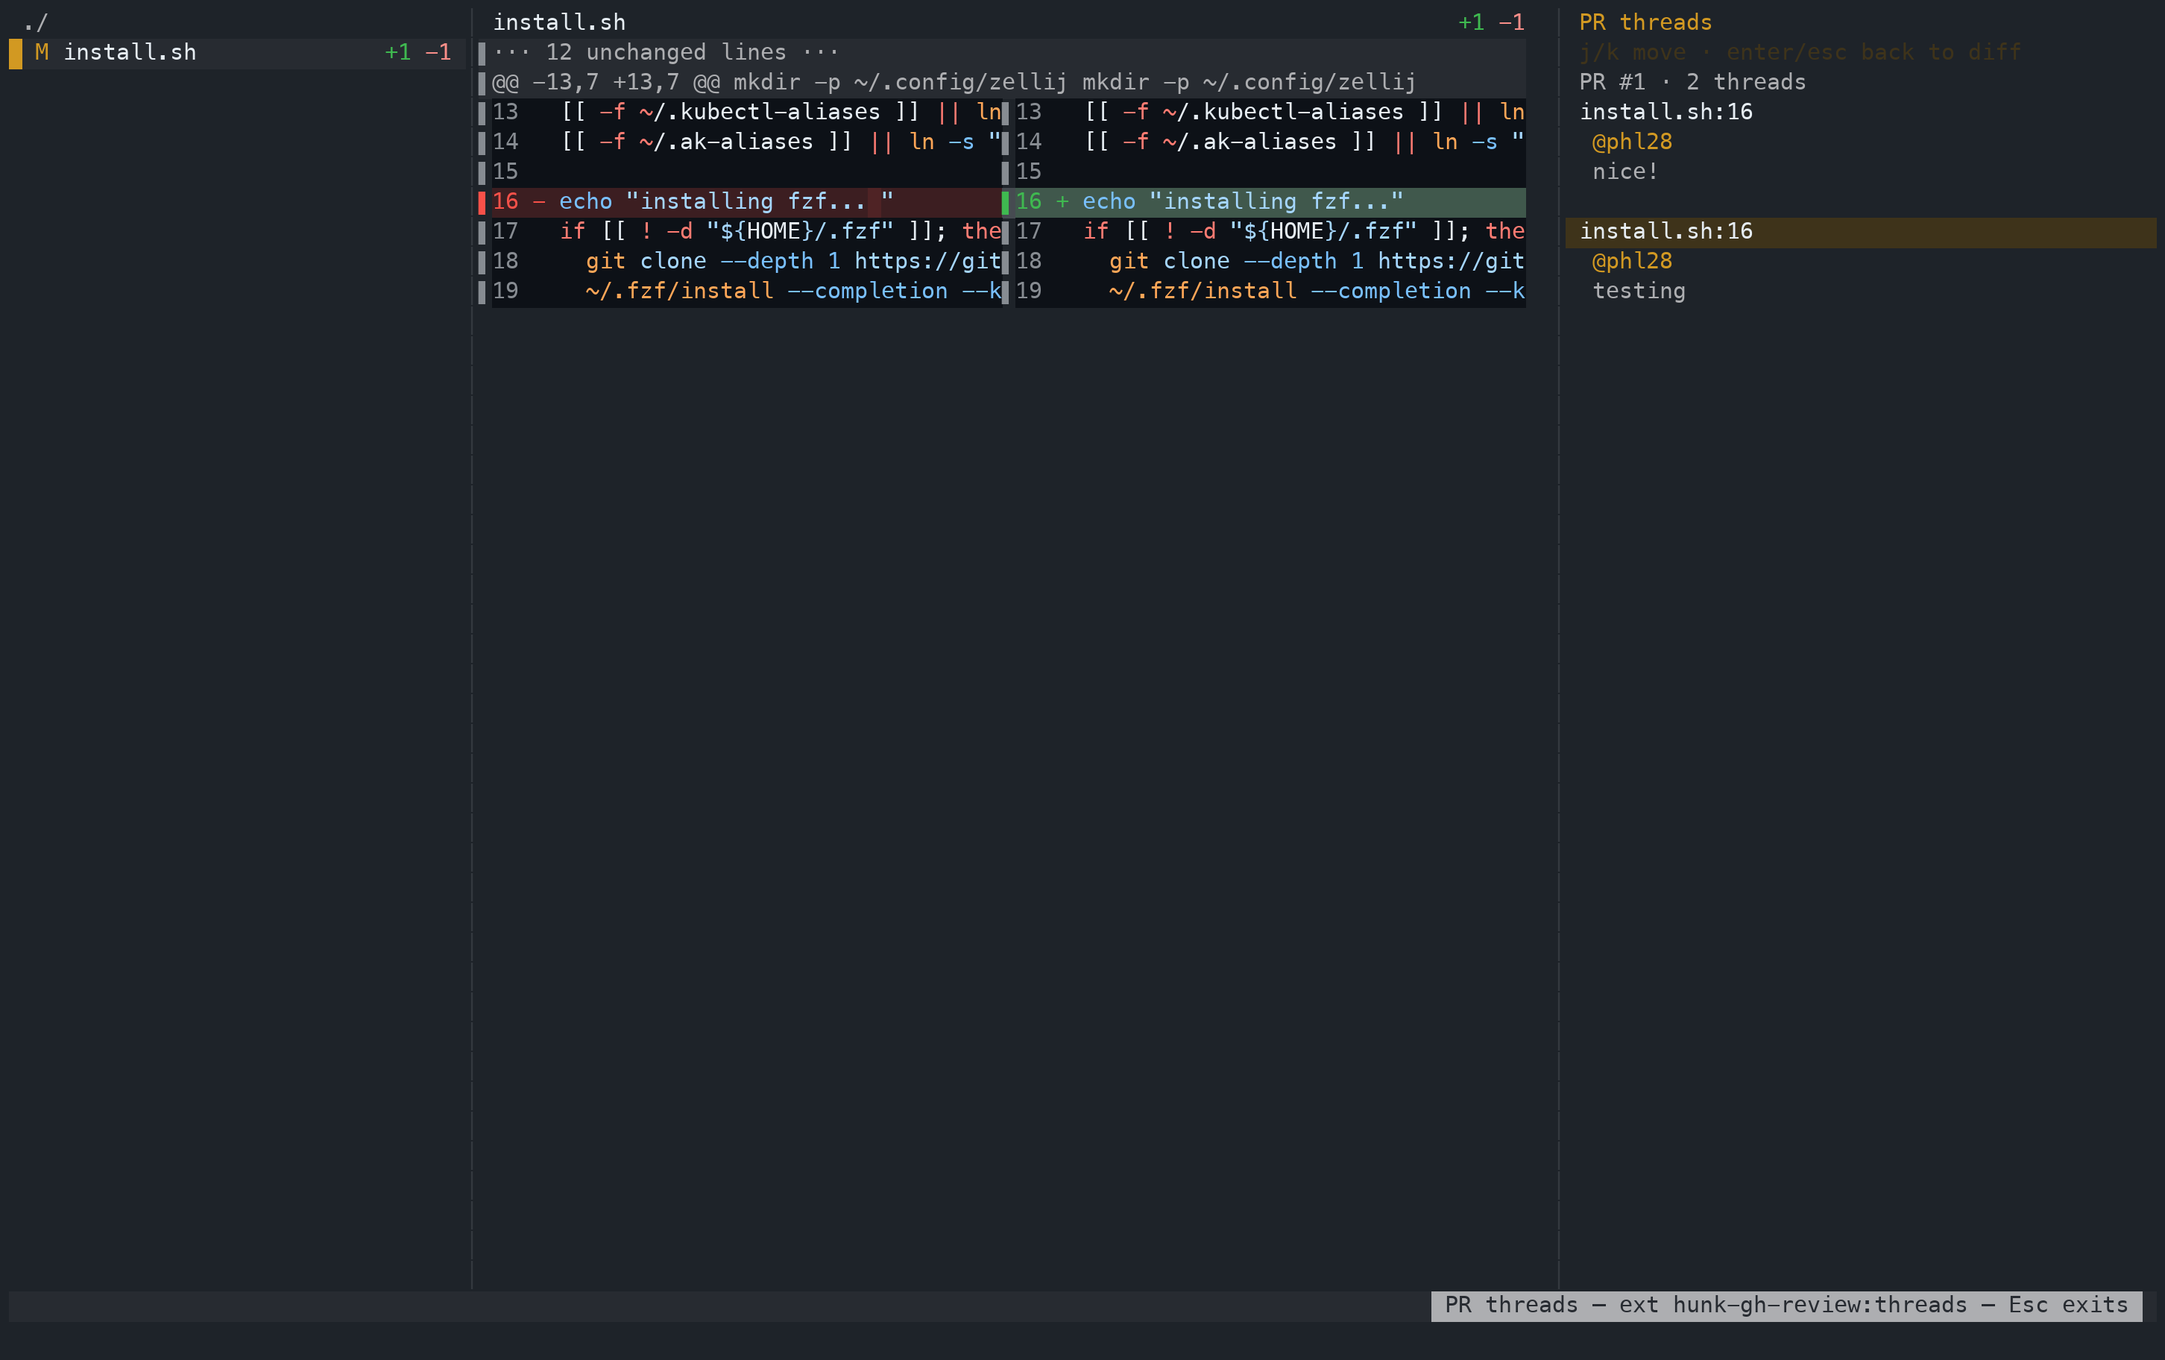
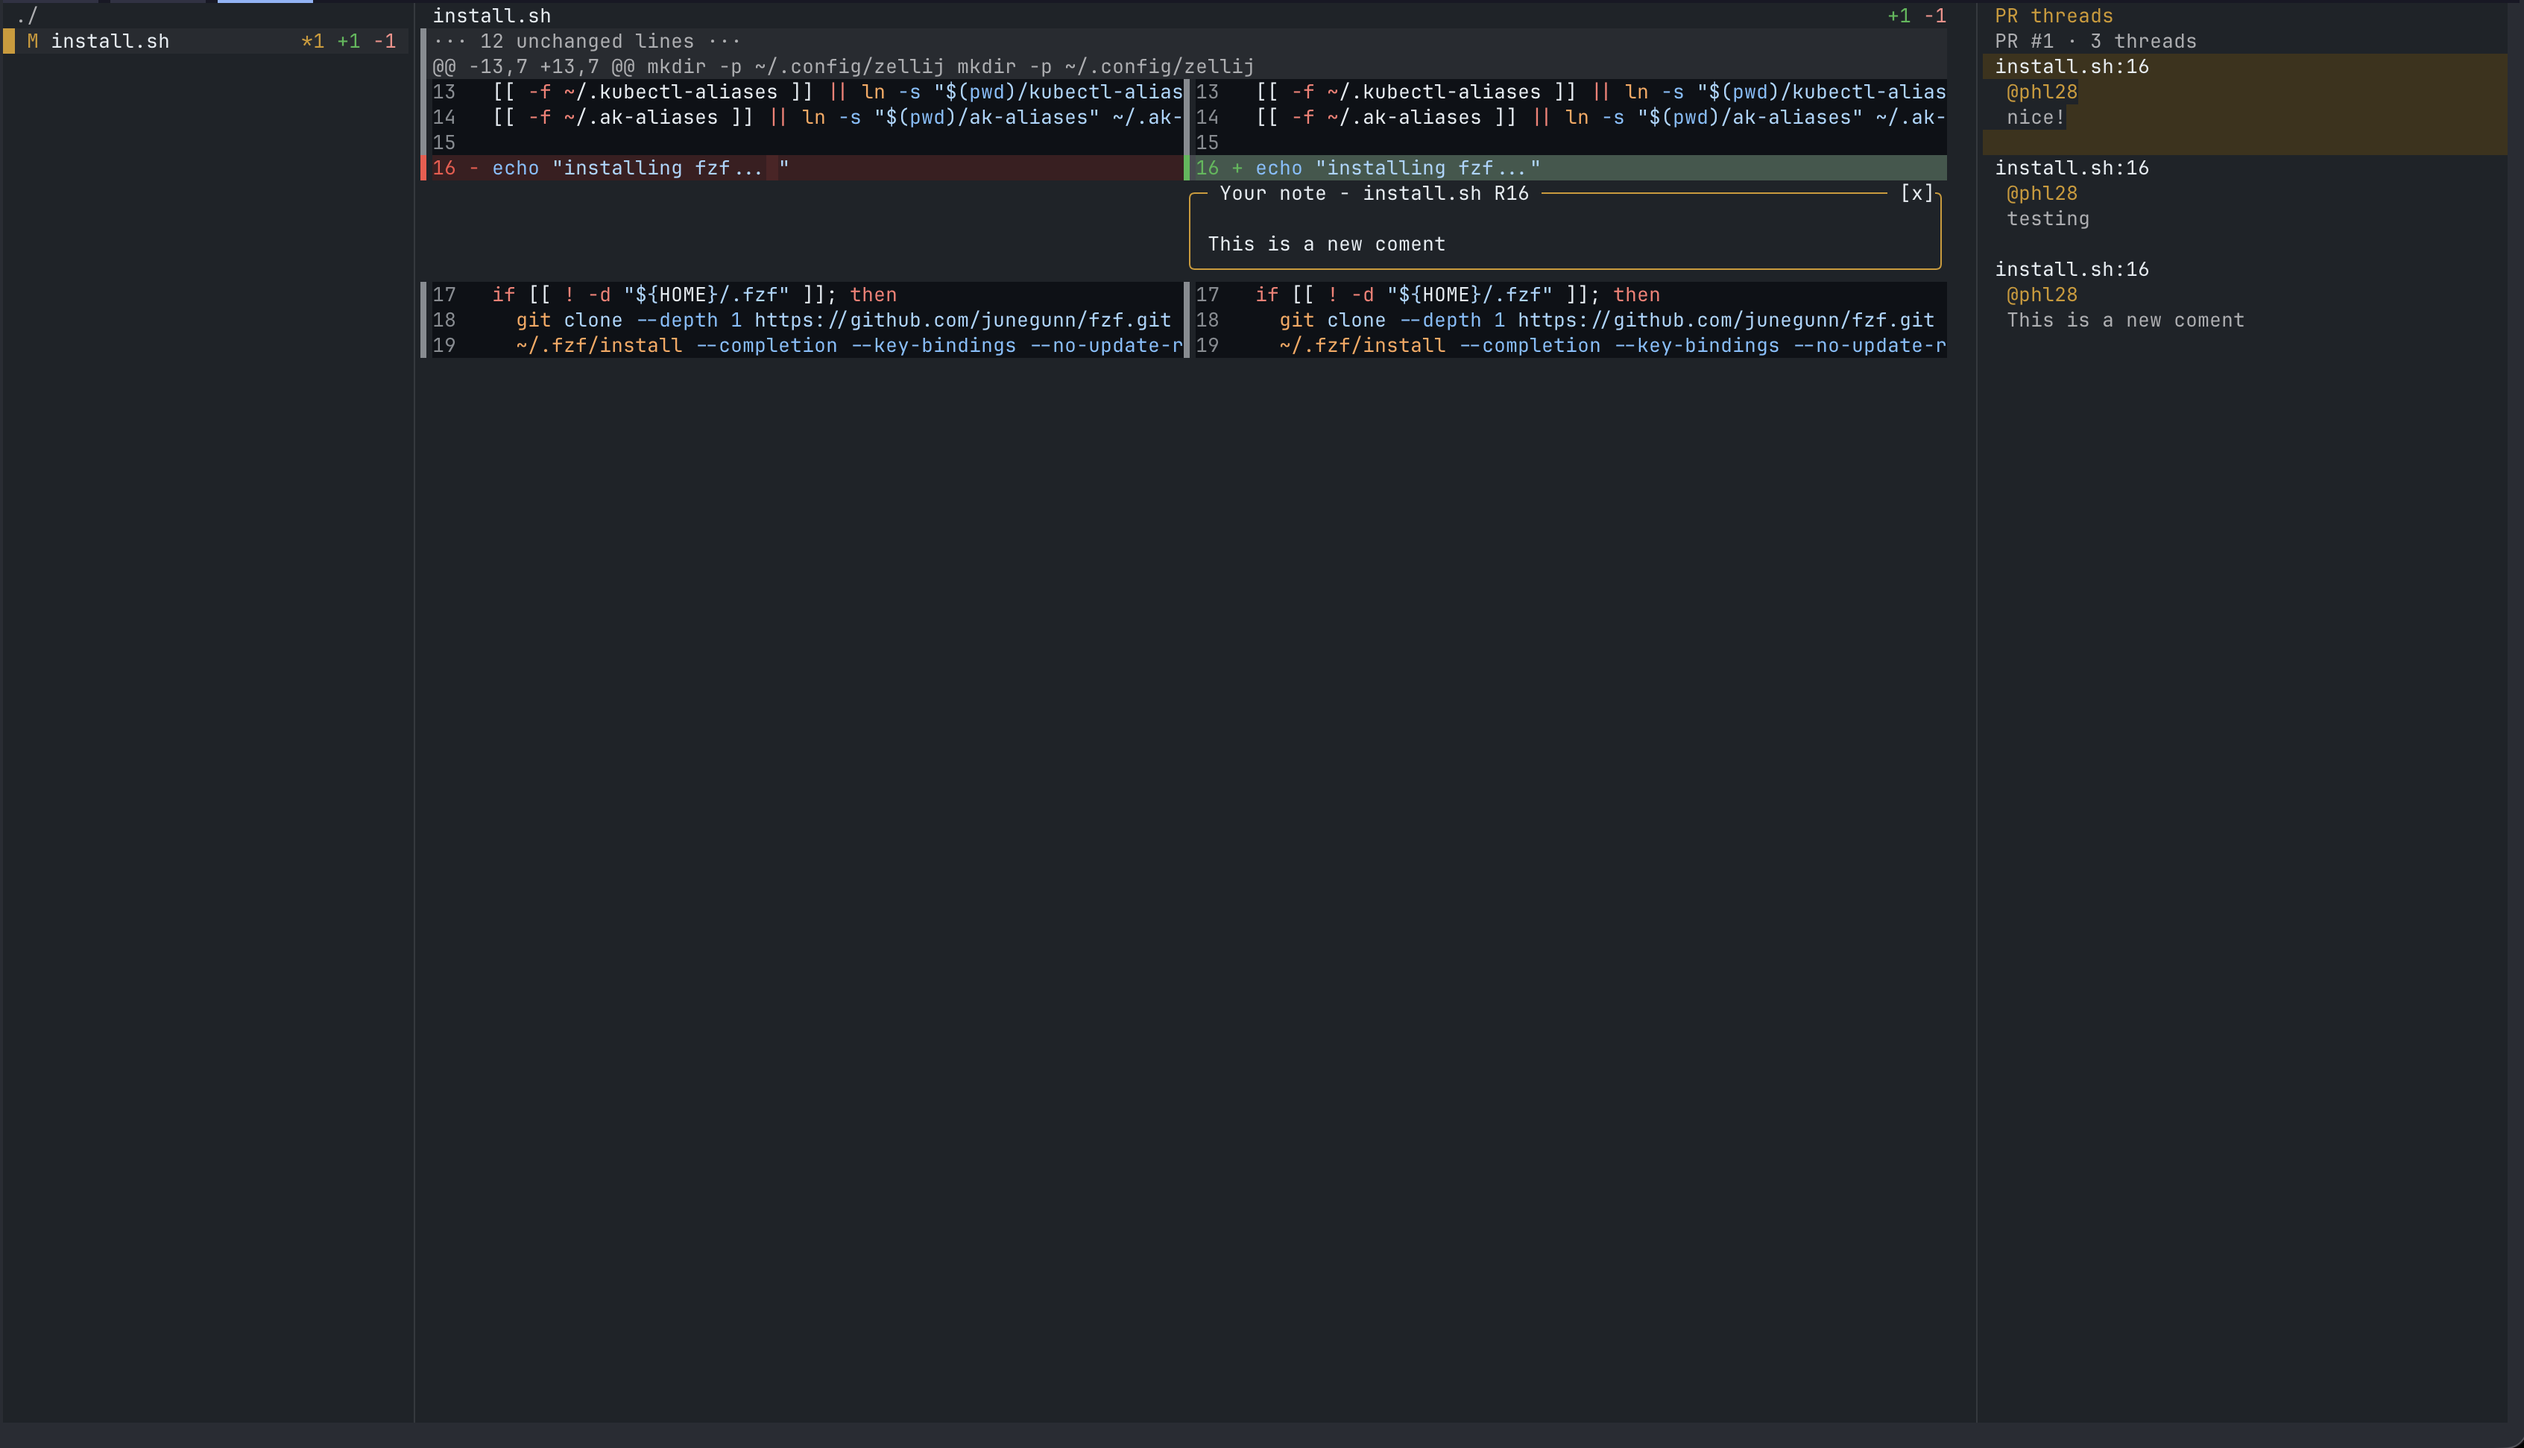
Replace synthetic captures with real screenshots
Three real UI captures: leaving a note over the diff, the review-type
dialog, and the threads pane after a submitted comment landed. Hero image
path unchanged (threads-pane.png), so the top embed keeps working; the
two new shots sit in a table under the submit flow.

diff --git a/README.md b/README.md
@@ -34,6 +34,10 @@ If there is no PR to attach notes to (e.g. reviewing uncommitted changes on a br
 
 Inline notes are optional, matching the GitHub UI: **Approve** and **Request changes** submit fine with no notes and no body; a **Comment** review with no inline notes requires a top-level body (the body prompt tells you when it's required).
 
+| Leave notes inline (`c`) | Choose the review type (`S`) |
+| --- | --- |
+| ![Note editor open over the diff](docs/assets/leave-a-note.png) | ![Comment / Approve / Request changes dialog](docs/assets/review-type-dialog.png) |
+
 **Fork-style clones:** gh resolves its base repo from remotes with the priority `upstream` > `github` > `origin`, so in clones with an `upstream` remote, bare `gh pr view`/`gh repo view` can silently query the wrong repo. Pass `GH_PR_REPO` (the `hpr` launcher derives it from the branch's tracking remote), or fix the clone once with `gh repo set-default owner/repo`.
 
 The whole review is a single GitHub API call: if GitHub rejects any comment position, nothing is posted and the error is shown as a notification.
